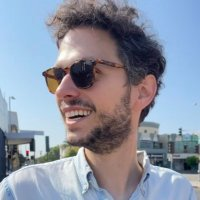
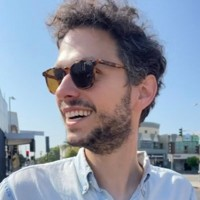
v9: Worked on view, Calv menu nesting, close X, timeline newest-first, Cosigned heading, cosign breakdown moved

diff --git a/data.js b/data.js
@@ -9,7 +9,7 @@ const BLOCKS=[
 // Interested in (order chosen so threads never cross)
 {id:"scout",sec:"Things I'm interested in",title:"Talent scouting",body:"David Booth's framing of the talent scout as a craft.",why:"Seeing people before the market does sits at the core of what I believe.",when:"Ongoing",links:["cosign","ovitz"]},
 {id:"conviction",sec:"Things I'm interested in",title:"Conviction bets / talent spotting",body:"Backing a person before the numbers make it obvious.",why:"I use the same read on creators that I use with my own money, weighing talent, timeline sentiment and analysis.",when:"Ongoing",links:["hyper","scout"]},
-{id:"cosign",sec:"Things I'm interested in",title:"How cosigns work",body:"How the a16z team (Erik Torenberg and co) think about co-signs as a mechanic.",why:"A cosign is how early conviction gets transferred to capital and audiences.",when:"Ongoing",links:["article","thrive"]},
+{id:"cosign",sec:"Things I'm interested in",title:"How cosigns work",embed:1,url:"https://www.linkedin.com/feed/update/urn:li:activity:7498919055244947456/",urlLab:"My cosign breakdown on LinkedIn ↗",body:"How the a16z team (Erik Torenberg and co) think about co-signs as a mechanic.",why:"A cosign is how early conviction gets transferred to capital and audiences.",when:"Ongoing",links:["article","thrive"]},
 {id:"thrive",sec:"Things I'm interested in",title:"Lindy & what lasts",body:"Longing, Lindy culture, and assets technology can't replicate. Thrive Eternal's thesis on iconic institutions put words to it.",why:"Where I think value accrues in a post-AGI world.",when:"Ongoing",links:["lps"]},
 {id:"fdssig",sec:"Things I'm interested in",title:"#fds-signals",body:"Our internal channel for the signals strategists spot across the creative landscape.",why:"This is how raw taste turns into something the team can encode.",when:"Kindling",url:"?v=signals",urlLab:"Open the Signals view ▸",links:["harness"]},
 {id:"lps",sec:"Things I'm interested in",title:"LPs and tech media creatives",body:"Being the interconnective tissue between capital and the people who make culture around it.",why:"Put plainly, this is the job I want to be doing.",when:"Ongoing",links:["dylan","sachadam"]},
@@ -26,9 +26,9 @@ const BLOCKS=[
 {id:"article",sec:"Things I've worked on",title:"The cosigns article (draft)",body:"An essay on cosigns and how conviction travels between people.",why:"I am writing down the mechanic I practise every day.",when:"2026",ph:1,links:["dylanx"]},
 {id:"distil",sec:"Things I've worked on",title:"Distillation into learnings",body:"How raw material gets distilled into top-line learnings the team can act on.",why:"Spotting signal early is scouting applied to information instead of people.",when:"Kindling",links:["harness"]},
 {id:"fds",sec:"Things I've worked on",title:"FDS at Kindling",body:"I am Head of FDS at Kindling and lead five strategists. FDS is the content and organic marketing function for B2B tech founders, and it complements their go-to-market motion.",why:"This is where I turn taste into a repeatable system for founders.",when:"Since joining Kindling",links:["harness","distil","videos"]},
-{id:"videos",sec:"Things I've worked on",title:"Customer videos",body:"Videos made for Kindling customers.",why:"This is the storytelling side of my work, out in the world.",when:"Kindling",ph:1,links:["sachadam"]},
+{id:"videos",sec:"Things I've worked on",title:"Customer videos",body:"Videos I've made for Kindling customers, including the HIO RPO mission, the Pass Series A announcement and behind the scenes of the Meridian launch. See the Worked on view.",url:"?v=work",urlLab:"Open the Worked on view ▸",why:"This is the storytelling side of my work, out in the world.",when:"Kindling",ph:1,links:["sachadam"]},
 {id:"senescence",sec:"Things I've worked on",title:"Senescence",body:"My year 12 short film, named for the Latin word for the slow decline that comes with age.",why:"It was the first time I told a story with a camera, long before it was my job.",when:"Year 12",ph:1,links:["email"]},
-{id:"yala",sec:"Things I've worked on",title:"Yala Peak, Himalayas",body:"A solo summit of Yala Peak followed by time in Kathmandu, a city that felt soulful.",why:"I went to reintroduce friction into my life and came back with room to reflect.",when:"Apr 2025",ph:1,imgs:[],url:"https://www.instagram.com/mattcalvetti/",urlLab:"Photos on Instagram ↗",links:["friction","senescence"]},
+{id:"yala",sec:"Things I've worked on",title:"Yala Peak, Himalayas",body:"A solo summit of Yala Peak followed by time in Kathmandu, a city that felt soulful.",why:"I went to reintroduce friction into my life and came back with room to reflect.",when:"Apr 2025",ph:1,imgs:[],links:["friction","senescence"]},
 {id:"harness",sec:"Things I've worked on",title:"The harness",body:"Idea generation built from chained skills that together work like a master prompt, along with templates for thinking about organic strategy. It takes a view on where people do their best work and where they get leverage.",why:"It takes a scout's instinct and makes it something the whole team can use.",when:"Kindling",links:["agentsw"]},
 {id:"agentsw",sec:"Things I've worked on",title:"How I work with agents",body:"<ul class=\"jobs\"><li><b>Customer health dashboard</b>, kept fresh by scheduled agents that run daily Slack sentiment reads, weekday freshness checks, a Friday refresh opened as PRs for review. Serves the founding team.</li><li><b>Ramping a new strategist</b> with morning points and end-of-day check-ins. Serves the FDS team.</li><li><b>Sparring partner</b> for business-model pressure tests and founding-team TLDRs.</li><li><b>Overheard</b>, a separate bot watching Reddit, HN, news and X for mentions, set up to serve Kindling's customers.</li><li><b>This site</b>, built entirely by voice.</li></ul>",why:"Each agent has one job and one group of people it serves.",when:"2026",links:["agentsi","harness","fds"]},
 // Cosigned (reading now lives in the Beyond work "Reading" pane)
@@ -36,13 +36,13 @@ const BLOCKS=[
 {id:"sachpost",sec:"Who's cosigned me",title:"Kindling team profile (Sachin)",body:"Sachin's LinkedIn post featuring me as that week's Kindling team profile.",why:"A public cosign from the founder.",when:"2026",ph:1,url:"https://lnkd.in/p/gjukQpVQ",links:["sachadam"]},
 {id:"erik",sec:"Who's cosigned me",title:"Erik Torenberg post (via Tom)",body:"Tom Duffy sent me Erik's post about “a list of talent with great taste whose range can’t be captured in a single label” and added “this is literally you.” The post is shown above.",why:"A peer pointed at the role and said it was me.",when:"2026",url:"https://x.com/eriktorenberg/status/2109722369556390210",links:["cosign","scout","brent"]},
 {id:"dylanx",sec:"Who's cosigned me",title:"Dylan (TBPN) on X",body:"Dylan replied “Few” on 18 Sep 2026, and @_AdamMiller_ added “you guys are leading the pack”. The post is shown above.",why:"A tip of the cap that we are thinking along the same lines, and he followed me back.",when:"Sep 2026",url:"https://x.com/DylanAbruscato/status/2100735428131258606",links:["dylan","erik","frank"]},
-{id:"sachin",sec:"Who's cosigned me",title:"Sachin on LinkedIn",body:"Sachin's “keep tabs on this guy” message.",why:"The cosign from the person who hired me.",when:"",ph:1,links:["sachpost"]},
 // Path: timeline-only entries (not on the board). Undated entries show no date label.
 {id:"london",sec:"Path",title:"Back from London",body:"",why:"Moved home from London.",when:""},
 {id:"agency",sec:"Path",title:"Started my own agency",body:"",why:"It failed, and it taught me what I didn't know.",when:""},
 {id:"moon",sec:"Path",title:"Moonlighting in tech",body:"",why:"Working on tech on the side.",when:""},
 {id:"web3",sec:"Path",title:"Web3, trader first",body:"",why:"Came into crypto as a trader.",when:""},
 {id:"degods",sec:"Path",title:"DeGods content contributor",body:"I was a content contributor to DeGods, and in Dec 2023 I wrote on X, “Last 6 months been wild… From not having a Canva account to now contributing alongside [the DeGods design team].”",why:"Frank backed the wavelength and vibe over graphic-design know-how.",when:"c. Jun–Dec 2023",url:"https://x.com/0xCalv/status/1733111650197336336"},
+{id:"voicesite",sec:"Path",title:"This site, built by voice",body:"Triangulating disparate threads, from what I'm interested in to what I've worked on and who has vouched for me, into one place. Every part of it was talked through with Grok Bot and none of it was written by hand.",why:"Pulling the threads together in one place.",when:"Oct 2026"},
 {id:"kindling",sec:"Path",title:"Joined Kindling",body:"",why:"Head of FDS.",when:""},
 {id:"sachadam",sec:"Who's cosigned me",title:"Sachin & Adam",body:"An existing relationship around their documentary series on emerging tech.",why:"I am already plugged in to the people making this kind of work.",when:"2026",ph:1,links:[]}
 ];
@@ -119,4 +119,13 @@ const BEYOND=[
  {t:"Sound healing"},{t:"Going from digital back to analog",a:"agency over what we consume"},{t:"Online identity"},{t:"Jazz"},{t:"Wine"},{t:"Community, and things going local"},{t:"Hardware"},{t:"Financial markets"}]}
 ];
 // Timeline order (oldest → newest). Entries with no "when" render without a date label.
-const TL=["senescence","london","agency","moon","web3","degods","frank","hyper","yala","kindling","email","fds","fdssig","distil","harness","agentsw","videos","sachpost","cospost","dylanx","dylan","brent","sachadam","erik","article"];
+const TL_OLDEST=["senescence","london","agency","moon","web3","degods","frank","hyper","yala","kindling","email","fds","fdssig","distil","harness","agentsw","videos","sachpost","cospost","dylanx","dylan","brent","sachadam","erik","article"];
+// Timeline renders newest first.
+const TL=["voicesite",...TL_OLDEST.slice().reverse()];
+// Worked on view. Video titles were dictated by voice; spellings to confirm (see README). thumb:null = 1-bit placeholder frame.
+const VIDEOS=[
+{t:"HIO RPO mission",k:"Customer video · Kindling",d:"A customer video on HIO's RPO mission.",chk:"Confirm spelling of 'HIO RPO'"},
+{t:"Pass Series A announcement",k:"Customer video · Kindling",d:"The Series A announcement video.",chk:"Dictated as 'past series A'. Is the company Pass?"},
+{t:"Behind the scenes of the Meridian launch",k:"Customer video · Kindling",d:"A behind-the-scenes cut from the Meridian launch.",chk:"Confirm 'Meridian'"},
+{t:"More coming",k:"Slot",empty:1},{t:"More coming",k:"Slot",empty:1},{t:"More coming",k:"Slot",empty:1}];
+const WORK=["fds","harness","distil","voicesite","agentsw","cospost","hyper","senescence","yala"];

diff --git a/index.html b/index.html
@@ -1,5 +1,5 @@
 <!doctype html><html lang="en"><head><meta charset="utf-8"><meta name="viewport" content="width=device-width,initial-scale=1">
-<title>Matt Calvetti · one opinion, demonstrated</title><link rel="stylesheet" href="style.css?v=1792902822"></head><body>
+<title>Matt Calvetti · one opinion, demonstrated</title><link rel="stylesheet" href="style.css?v=1792909100"></head><body>
 <div id="boot" class="screen">
   <div class="bootbox">
     <div class="happy">◰</div>
@@ -16,20 +16,21 @@
   <div id="menubar">
     <div class="menu" id="mCalv"><span class="mt"><span class="apple">◰</span> <b>Calv</b></span><div class="dd">
       <a data-act="about">About This Site…</a><hr>
+      <a data-go="interested">Interested in</a><a data-go="work">Worked on</a><a data-act="beyond">Beyond work</a><hr>
       <a href="https://x.com/0xcalv" target="_blank" rel="noopener">X · @0xcalv ↗</a>
       <a href="https://www.linkedin.com/in/matthewcalvetti/" target="_blank" rel="noopener">LinkedIn ↗</a>
-      <a href="https://www.instagram.com/mattcalvetti/" target="_blank" rel="noopener">Instagram · @mattcalvetti ↗</a></div></div>
+</div></div>
     <div class="menu" id="mFile"><span class="mt">File</span><div class="dd">
-      <a data-go="board">Board</a><a data-go="timeline">Timeline</a><a data-go="signals">Signals</a><hr>
-      <a data-go="read">Reading</a><a data-go="cos">Vouched for me</a><a data-go="beyond">Beyond work</a></div></div>
-    <span class="vw on" data-go="board">Board</span><span class="vw" data-go="timeline">Timeline</span><span class="vw" data-go="signals">Signals</span></div>
+      <a data-go="board">Board</a><a data-go="work">Worked on</a><a data-go="timeline">Timeline</a><a data-go="signals">Signals</a><hr>
+      <a data-act="beyond">Reading</a><a data-go="cos">Cosigned</a></div></div>
+    <span class="vw on" data-go="board">Board</span><span class="vw" data-go="work">Worked on</span><span class="vw" data-go="timeline">Timeline</span><span class="vw" data-go="signals">Signals</span></div>
   <div class="win thesis"><div class="tb"><i class="cb"></i><span>Thesis</span></div><div class="wb">
     <h1 id="thesis">Founder-led storytelling. Backing people early.</h1>
     <p class="small"><span class="ph">PLACEHOLDER THESIS</span> <a href="#" id="cycle">other options</a></p><p class="small">These days I lead the FDS team at Kindling, where we run organic content strategy for B2B tech founders. Each interest on the left is threaded to the work it shaped on the right, and you can tap any card to read what I think about it.</p></div></div>
-  <section id="cosTop"><div class="sec">Who's vouched for me</div>
+  <section id="cosTop"><h1 class="cosh">Cosigned</h1><div class="sec">Who's vouched for me</div>
     <div class="cosrow">
       <div class="win emb story"><div class="tb"><span>Tom Duffy → Erik Torenberg</span></div><div class="wb pair">
-        <div class="msg"><div class="who">Tom Duffy</div><div class="bubble"><a href="https://x.com/eriktorenberg/status/2109722369556390210" target="_blank" rel="noopener" class="lnk">x.com/eriktorenberg/status/2109…</a><p>this is literally you</p></div><div class="join small">sent me this ⟶</div></div>
+        <div class="msg"><div class="who">Tom Duffy</div><img class="wa" src="img/tom-whatsapp.png" alt="Tom Duffy on WhatsApp: this is literally you" hidden onerror="this.remove()" onload="this.hidden=false;this.nextElementSibling.hidden=true"><div class="bubble"><a href="https://x.com/eriktorenberg/status/2109722369556390210" target="_blank" rel="noopener" class="lnk">x.com/eriktorenberg/status/2109…</a><p>this is literally you</p></div><div class="join small">sent me this ⟶</div></div>
         <div class="post"><div class="xpost"><div class="xh"><img class="av" src="img/erik.jpg" alt="Erik Torenberg" width="40" height="40"><div><b>Erik Torenberg</b><div class="muted small">@eriktorenberg</div></div><span class="xl">𝕏</span></div><p class="xt">A list of talent with great taste whose range can’t be captured in a single label</p><p class="small muted xq">Quoting “literal hardest role to hire for rn and every ai startup wants someone · chronically online (knows trends) · has taste &amp; can create (new media) · understands ai &amp; technical · can execute with quality (operator)”</p><a class="xd small" href="https://x.com/eriktorenberg/status/2109722369556390210" target="_blank" rel="noopener">12 Oct 2026 · view on X ↗</a></div></div></div></div>
       <div class="win emb"><div class="tb"><span>Dylan Abruscato (TBPN) · X</span></div><div class="wb">
         <p class="small cap">Dylan and I seem to be thinking about this in the same direction, and he followed me back.</p>
@@ -38,28 +39,26 @@
       <div class="win emb"><div class="tb"><span>Sachin Shah · LinkedIn</span></div><div class="wb">
         <iframe class="li" data-fb="fb2" src="https://www.linkedin.com/embed/feed/update/urn:li:ugcPost:7496038462102413312" height="560" frameborder="0" allowfullscreen title="LinkedIn post"></iframe>
         <div class="fb" id="fb2"><p>Sachin: “This week's Kindling team profile is on Matt…”</p><a href="https://www.linkedin.com/feed/update/urn:li:activity:7496038465403359233/" target="_blank" rel="noopener">View on LinkedIn ↗</a></div></div></div>
-      <div class="win emb"><div class="tb"><span>My cosign breakdown · LinkedIn</span></div><div class="wb">
-        <iframe class="li" data-fb="fb1" src="https://www.linkedin.com/embed/feed/update/urn:li:activity:7498919055244947456" height="560" frameborder="0" allowfullscreen title="LinkedIn post"></iframe>
-        <div class="fb" id="fb1"><p>“Dialled concept for a couple of reasons: 1. Co-signs are pretty scattered &amp; require baseline follower hygiene… 2. Question count introduces scarcity… 3. Second order effect, gives the folk at a16z the ability to see who’s got their talent spotting eye in/tastemaker sense.”</p><a href="https://www.linkedin.com/feed/update/urn:li:activity:7498919055244947456/" target="_blank" rel="noopener">View on LinkedIn ↗</a></div></div></div>
       <div class="win emb"><div class="tb"><span>Frank (DeGods founder) · X</span></div><div class="wb">
         <p class="small cap">This one is from my crypto years, when I was a content contributor to DeGods, a Web3-native project.</p>
         <div class="xpost"><div class="xh"><img class="av" src="img/frank.jpg" alt="Frank" width="40" height="40"><div><b>Frank</b><div class="muted small">@frankdegods</div></div><span class="xl">𝕏</span></div><p class="xt">I can tell you read the guide. Absolutely dialed profile.<br><br>Was already following you but I unfollowed you to refollow you again.</p><a class="xd small" href="https://x.com/frankdegods/status/1665250022789873664" target="_blank" rel="noopener">4 Jun 2023 · view on X ↗</a></div>
         <ul class="more small"><li>“Forbes type beat”, <a href="https://x.com/frankdegods/status/1697855621381661030" target="_blank" rel="noopener">2 Sep 2023 ↗</a></li><li>“stay goated”, <a href="https://x.com/frankdegods/status/1698881008282821045" target="_blank" rel="noopener">5 Sep 2023 ↗</a></li></ul></div></div>
     </div>
-    <div id="gCos" class="grid"></div></section>
+</section>
   <div id="board" class="view">
     <div class="heads"><div class="sec">Interested in</div><div class="mid small">— shaped →</div><div class="sec">Worked on</div></div>
     <div id="cols"><svg id="threads"></svg><div id="colL" class="col"></div><div></div><div id="colR" class="col"></div></div>
-        <details id="dBeyond" class="drawer"><summary>▸ Beyond work</summary><div id="gBeyond"></div></details>
   </div>
+  <div id="work" class="view" hidden><h1 class="cosh">Worked on</h1><p class="small lede">Customer videos I've made at Kindling come first, followed by the systems and projects behind them. Tap any tile for the story.</p><div class="sec">Customer videos · Kindling</div><div id="gVid" class="wgrid"></div><div class="sec">Projects &amp; systems</div><div id="gWork" class="wgrid"></div></div>
   <div id="timeline" class="view" hidden></div>
   <div id="signals" class="view" hidden><div class="win"><div class="tb"><span>Signals</span></div><div class="wb">
     <h2>How I read creative</h2><p class="small">You can tell a lot about a person by who they follow and what they contribute to, so this is where picks from our team's signals channel will sit alongside what I like, reply to and follow on X.</p>
     <div id="gSig" class="grid"></div></div></div></div>
-  <div id="about" class="win modal" hidden><div class="tb"><i class="cb" data-close></i><span>About This Site</span></div><div class="wb">
+  <div id="about" class="win modal" hidden><div class="tb"><i class="cb" data-close role="button" tabindex="0" aria-label="Close"></i><span>About This Site</span></div><div class="wb">
     <h2>This is an experiment.</h2><p>I wanted to see how far I could take voice as a way of making things, so every part of this site was built by talking it through with Grok Bot, and I never wrote a line of the code by hand.</p><p class="small">A few of the voice notes that built it:</p>
     <ul class="quotes"><li>“Portfolios and, you know, CVs are a little fatigued.”</li><li>“How far can I take this with my voice?”</li><li>“It needs to be earned, and it needs to be there for a reason.”</li><li>“How would Steve Jobs think about this?”</li></ul>
     <p class="small muted">The type is a bitmap stack and the patterns are 1-bit, after the Apple Human Interface Guidelines from 1987. The board borrows from Are.na and the timeline from pi.website.</p></div></div>
-  <div id="detail" class="win modal" hidden><div class="tb"><i class="cb" data-close></i><span id="dt"></span></div><div class="wb" id="db"></div></div>
+  <div id="beyond" class="win modal wide" hidden><div class="tb"><i class="cb" data-close role="button" tabindex="0" aria-label="Close"></i><span>Beyond work</span></div><div class="wb"><div id="gBeyond"></div></div></div>
+  <div id="detail" class="win modal" hidden><div class="tb"><i class="cb" data-close role="button" tabindex="0" aria-label="Close"></i><span id="dt"></span></div><div class="wb" id="db"></div></div>
 </div>
-<script src="data.js?v=1792902822"></script><script src="app.js?v=1792902822"></script></body></html>
+<script src="data.js?v=1792909100"></script><script src="app.js?v=1792909100"></script></body></html>

diff --git a/app.js b/app.js
@@ -34,11 +34,14 @@ function unlock(){/* local gate only; see note above */if(unlocked)return;unlock
 
 // board
 const card=b=>{const el=document.createElement("div");el.className="win blk";el.id="b-"+b.id;
- el.innerHTML=`<div class="tb"><i class="cb"></i><span>${b.id}</span></div><div class="wb">${b.ph?'<span class="ph">PLACEHOLDER</span>':''}<h3>${b.title}</h3><div class="small">${b.body}</div><div class="why">↳ ${b.why}</div><div class="more">Tap for my read ▸</div></div>`;
+ el.innerHTML=`<div class="tb"><span>${b.id}</span></div><div class="wb">${b.ph?'<span class="ph">PLACEHOLDER</span>':''}<h3>${b.title}</h3><div class="small">${b.body}</div><div class="why">↳ ${b.why}</div><div class="more">Tap for my read ▸</div></div>`;
  el.onclick=()=>open(b);el.onmouseenter=()=>focus(b.id,1);el.onmouseleave=()=>focus(b.id,0);return el};
 function render(){const L=$("#colL"),R=$("#colR");
  BLOCKS.forEach(b=>{if(b.sec==="Things I'm interested in")L.append(card(b));else if(b.sec==="Things I've worked on")R.append(card(b));
-  else if(b.sec!=="Path")$("#gCos").append(card(b))});
+});
+ const frame=(t,sub)=>`<div class="frame"><svg viewBox="0 0 160 90" preserveAspectRatio="none"><rect width="160" height="90" fill="url(#dz)"/><polygon points="68,30 68,60 94,45" fill="#fff" stroke="#000" stroke-width="2"/></svg><span class="fl">${sub}</span></div>`;
+ $("#gVid").innerHTML='<svg width="0" height="0" style="position:absolute"><defs><pattern id="dz" width="4" height="4" patternUnits="userSpaceOnUse"><rect width="4" height="4" fill="#fff"/><rect width="1" height="1"/><rect x="2" y="2" width="1" height="1"/></pattern></defs></svg>'+VIDEOS.map(v=>`<div class="win wt${v.empty?' empty':''}"><div class="tb"><span>${v.k}</span></div><div class="wb">${v.empty?'<div class="frame blank"><span class="fl">more coming</span></div><h3>More coming</h3>':frame(v.t,"video coming")+`<h3>${v.t}</h3><div class="small">${v.d}</div>`}</div></div>`).join("");
+ WORK.map(T).forEach(b=>{const el=document.createElement("div");el.className="win wt blk";el.innerHTML=`<div class="tb"><span>${KIND(b)==="Path"?"Project":"Worked on"}</span></div><div class="wb"><h3>${b.title}</h3><div class="small">${b.body.replace(/<[^>]+>/g," ").slice(0,150)}${b.body.length>150?"…":""}</div><div class="more">Open ▸</div></div>`;el.onclick=()=>open(b);$("#gWork").append(el)});
  draw();window.onresize=draw;
  const tl=$("#timeline");TL.map(T).filter(Boolean).forEach(b=>{const r=document.createElement("div");r.className="tl";r.innerHTML=`<div class="yr">${b.when||""}</div><div class="ln"></div><div class="body"><b>${b.title}</b> <small>· ${b.sec}</small><div class="small">${b.why}</div></div>`;r.onclick=()=>open(b);tl.append(r)});}
 function draw(){const svg=$("#threads"),G=$("#cols").getBoundingClientRect();svg.innerHTML="";const NS="http://www.w3.org/2000/svg";
@@ -74,11 +77,12 @@ document.addEventListener("click",e=>{const d=e.target.dataset;
  if(d.hop){e.preventDefault();open(T(d.hop),1)}
  if(d.go){go(d.go);closeMenus()}
  if(d.act==="about"){show("#about");closeMenus()}
+ if(d.act==="beyond"){show("#beyond");closeMenus()}
  const mt=e.target.closest(".mt");if(mt){const m=mt.parentElement,was=m.classList.contains("open");closeMenus();if(!was)m.classList.add("open")}
  else if(!e.target.closest(".dd"))closeMenus()});
 const closeMenus=()=>document.querySelectorAll(".menu").forEach(m=>m.classList.remove("open"));
-const VIEWS=["board","timeline","signals"];
-function go(v){let drawer=null;if(v==="read")drawer="#dBeyond",v="board";if(v==="cos")drawer="#cosTop",v="board";if(v==="beyond")drawer="#dBeyond",v="board";
+const VIEWS=["board","work","timeline","signals"];document.addEventListener("keydown",e=>{if(e.key==="Escape")document.querySelectorAll(".modal").forEach(m=>m.hidden=true)});
+function go(v){let drawer=null;if(v==="read"||v==="beyond"){show("#beyond");return}if(v==="cos")drawer="#cosTop",v="board";if(v==="interested")drawer="#board",v="board";
  VIEWS.forEach(x=>$("#"+x).hidden=x!==v);$(".thesis").hidden=v!=="board";$("#cosTop").hidden=v!=="board";
  document.querySelectorAll(".vw").forEach(s=>s.classList.toggle("on",s.dataset.go===v));
  if(v==="board")draw();if(drawer)setTimeout(()=>{const d=$(drawer);if(d.tagName==="DETAILS")d.open=true;d.scrollIntoView({behavior:"smooth"})},30)}

diff --git a/style.css b/style.css
@@ -87,10 +87,34 @@ a{color:#000}
 .pair{grid-template-columns:320px 1fr}.bubble{padding:12px 16px}.bubble p{font-size:20px}
 .xpost{border:2px solid #000;box-shadow:3px 3px 0 #000;padding:10px 12px;background:#fff}
 .xh{display:flex;gap:10px;align-items:center}.xh .xl{margin-left:auto;font-size:18px}
-.av{width:40px;height:40px;border:2px solid #000;filter:grayscale(1) contrast(1.4);image-rendering:pixelated;object-fit:cover}
+.av{width:40px;height:40px;border:2px solid #000;object-fit:cover}
 .xt{font-size:17px;margin:10px 0 6px}.xq{border-left:2px solid #000;padding-left:8px;margin:6px 0}.xd{display:block;margin-top:6px}
 
 .txtbtn{background:none;border:0;font:inherit;font-size:12px;text-decoration:underline;cursor:pointer;color:#000;margin-top:4px}
 #fmsg:empty{display:none}
 
 @media (prefers-reduced-motion:reduce){*,*:before,*:after{animation:none!important;transition:none!important}}
+
+/* v9 */
+.cosh{font-family:Silkscreen,monospace;font-weight:400;font-size:30px;margin:26px 0 0;letter-spacing:1px;background:#fff;display:inline-block;padding:0 10px;border:2px solid #000;box-shadow:3px 3px 0 #000}
+#cosTop .sec{display:block;width:max-content;margin-top:12px}
+/* 1987 alert-dialog shape: rounded rect with an inner double rule, same for every cosign */
+.cosrow .win{border-radius:12px;box-shadow:4px 4px 0 #000;outline:1px solid #000;outline-offset:-6px;overflow:hidden}
+.cosrow .win .tb{border-radius:10px 10px 0 0;margin:6px 6px 0}.cosrow .win .wb{padding:12px 18px 16px}
+.cosrow .xpost{border-radius:10px}.av{border-radius:50%}
+.wa{max-width:100%;border:2px solid #000;border-radius:10px;display:block}
+/* close box: plain square, shows an X on hover/focus, always on touch */
+.cb{display:grid;place-items:center}.cb:after{content:"";width:9px;height:9px;opacity:0;background:linear-gradient(45deg,transparent 42%,#000 42% 58%,transparent 58%),linear-gradient(-45deg,transparent 42%,#000 42% 58%,transparent 58%)}
+.cb:hover:after,.tb:hover .cb:after,.cb:focus:after{opacity:1}
+@media (hover:none){.cb:after{opacity:1}.cb{width:20px;height:20px;top:0}}
+.modal .tb{height:24px}.modal .cb{width:16px;height:16px;top:2px}
+.modal.wide{width:min(900px,96vw)}#gBeyond{grid-template-columns:repeat(2,1fr)}
+#work .lede{background:#fff;border:2px solid #000;padding:6px 10px;max-width:640px}
+.wgrid{display:grid;grid-template-columns:repeat(auto-fill,minmax(260px,1fr));gap:20px;margin-bottom:10px}
+.wt .wb{padding:0 0 12px}.wt h3,.wt .small,.wt .more{margin-left:12px;margin-right:12px}.wt h3{margin-top:10px;margin-bottom:4px;font-size:15px}
+.frame{position:relative;aspect-ratio:16/9;border-bottom:2px solid #000;overflow:hidden}.frame svg{width:100%;height:100%;display:block}
+.frame .fl{position:absolute;left:8px;bottom:6px;background:#000;color:#fff;font-family:Silkscreen;font-size:10px;padding:1px 6px}
+.frame.blank{background:#fff;border-bottom:2px dashed #000}.frame.blank .fl{background:#fff;color:#000;border:1px dashed #000}
+.wt.empty{border-style:dashed;box-shadow:none}.wt.empty h3{color:#555}
+@media(max-width:800px){#gBeyond{grid-template-columns:1fr}}
+.wa[hidden]{display:none}.cosrow{align-items:start}

diff --git a/README.md b/README.md
@@ -27,3 +27,11 @@ Cosign X posts are static cards (avatars in img/, pulled from public X profiles)
 Tapping the fingerprint triggers a real WebAuthn platform-authenticator prompt (Touch ID / Face ID / Windows Hello). First visit creates a passkey for this hostname and stores its credential id in localStorage; later visits ask for it. If passkeys are unavailable, cancelled, or error, an "Enter without passkey" link appears.
 
 **This is a local-device gate, not access control.** There is no backend, so nothing is verified server-side and anyone can bypass it. Restricting the site to approved emails requires a hosted auth service (e.g. Clerk, Supabase Auth, Auth0, or Cloudflare Access).
+
+## v9
+- New **Worked on** view (menu bar + Calv menu). `VIDEOS` and `WORK` in data.js. Video thumbnails are 1-bit placeholder frames.
+- **Titles dictated by voice, spellings to confirm:** "HIO RPO mission" (HIO? RPO?), "Pass Series A announcement" (dictated as "past series A"; is the company Pass?), "Behind the scenes of the Meridian launch" (Meridian?).
+- Beyond work is a Calv-menu window. Instagram removed everywhere.
+- Timeline newest first (`TL` built from `TL_OLDEST` reversed, plus `voicesite` Oct 2026 on top).
+- Cosigns: "Cosigned" H1, rounded 1987-dialog cards, all avatars in original colour. Cosign breakdown moved into the "How cosigns work" card. Small cosign cards row removed (duplicated the embeds; Sachin "keep tabs on this guy" had no source and is deleted).
+- Tom: drop the real screenshot at `img/tom-whatsapp.png` and it replaces the text bubble automatically.
